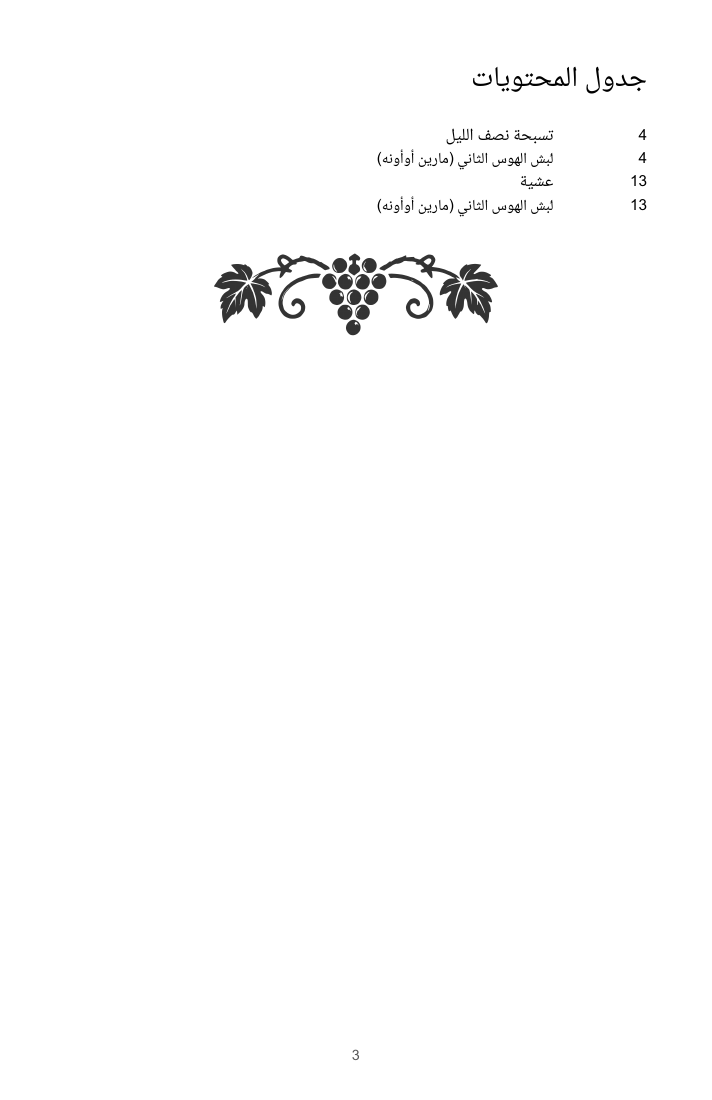
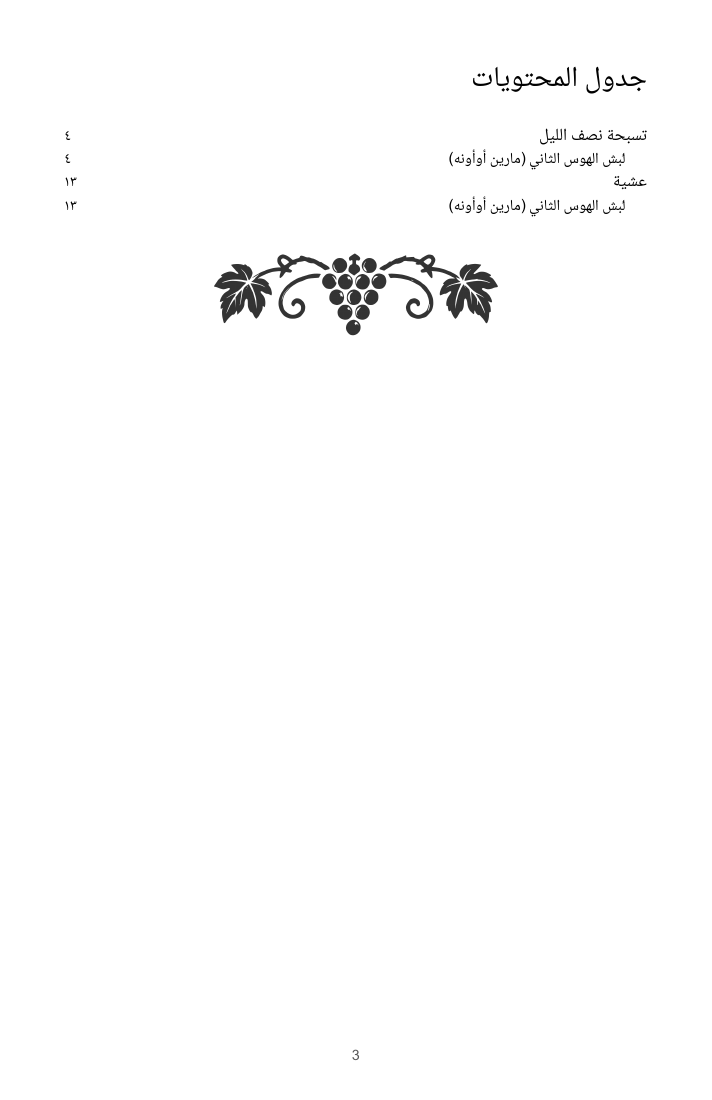
Mirror Arabic contents rows and use Arabic page references

Changed region(s): [[0.5253, 0.1236, 0.927, 0.2164], [0.8034, 0.1855, 0.8343, 0.2164]]

diff --git a/src/Booklets/BookletPdfGenerator.ts b/src/Booklets/BookletPdfGenerator.ts
@@ -1142,20 +1142,20 @@ function drawToc(tocPages: PDFPage[], fonts: EmbeddedFonts, entries: TocEntry[],
         const font = rtl ? fonts.arabic : entry.level === "service" ? fonts.title : fonts.english;
         const indent = entry.level === "service" ? 0 : 12;
         const title = truncateToWidth(entry.title, font, size, CONTENT_WIDTH - 52 - indent);
-        const pageNumber = `${entry.pageNumber}`;
-        const pageNumberWidth = safeTextWidth(fonts.english, pageNumber, 8.5);
+        const pageNumber = arabic ? `${entry.pageNumber}`.replace(/[0-9]/g, digit => "٠١٢٣٤٥٦٧٨٩"[Number(digit)]) : `${entry.pageNumber}`;
+        const numberFont = arabic ? fonts.arabic : fonts.english;
+        const pageNumberWidth = safeTextWidth(numberFont, pageNumber, 8.5);
 
         drawPlainHeadingLine(page, fonts, title, entry.level === "service" ? "title" : "english", size,
-            PAGE_MARGIN_X + indent, LOGICAL_PAGE_WIDTH - PAGE_MARGIN_X - 52, cursorY, black, false);
-        page.drawText(pageNumber, {
-            x: LOGICAL_PAGE_WIDTH - PAGE_MARGIN_X - pageNumberWidth,
-            y: cursorY,
-            size: 8.5,
-            font: fonts.english,
-            color: black
+            PAGE_MARGIN_X + (arabic ? 52 : indent), LOGICAL_PAGE_WIDTH - PAGE_MARGIN_X - (arabic ? indent : 52), cursorY, black, false);
+        let numberX = arabic ? PAGE_MARGIN_X : LOGICAL_PAGE_WIDTH - PAGE_MARGIN_X - pageNumberWidth;
+        // The Arabic font shapes digit strings right-to-left; place digits individually to preserve ١٣ rather than ٣١.
+        (arabic ? Array.from(pageNumber) : [pageNumber]).forEach(part => {
+            page.drawText(part, { x: numberX, y: cursorY, size: 8.5, font: numberFont, color: black });
+            numberX += safeTextWidth(numberFont, part, 8.5);
         });
         if (linkTargets) {
-            addPageLinkAnnotation(page, entry.pageNumber, PAGE_MARGIN_X + indent, cursorY - 2, CONTENT_WIDTH - indent, TOC_LINE_HEIGHT);
+            addPageLinkAnnotation(page, entry.pageNumber, PAGE_MARGIN_X + (arabic ? 0 : indent), cursorY - 2, CONTENT_WIDTH - indent, TOC_LINE_HEIGHT);
         }
         cursorY -= TOC_LINE_HEIGHT;
     });

diff --git a/src/Booklets/BookletPdfGenerator.test.ts b/src/Booklets/BookletPdfGenerator.test.ts
@@ -173,6 +173,12 @@ describe("BookletPdfGenerator", () => {
             expect(draws.mock.calls.some(([text, options]) => text === "(" && options?.font?.name === "Helvetica")).toBe(true);
             expect(draws.mock.calls.map(([text]) => text).join("")).toContain("جدول المحتويات");
             expect(draws.mock.calls.some(([text]) => text === "Table of Contents")).toBe(false);
+            const tocNumber = draws.mock.calls.find(([text, options]) => text === "٤" && options?.size === 8.5);
+            const tocTitle = draws.mock.calls.find(([text, options]) => text === "تسبحة" && options?.size === 9.5);
+            expect(tocNumber).toBeDefined();
+            expect(tocTitle).toBeDefined();
+            expect(tocNumber![1]!.x).toBeLessThan(tocTitle![1]!.x!);
+            expect(tocNumber![1]!.font!.name).not.toBe("Helvetica");
         } finally { draws.mockRestore(); }
     });
     it("places service ornaments after each service and the contents when space permits", async () => {

diff --git a/docs/booklet-layout.md b/docs/booklet-layout.md
@@ -2,7 +2,7 @@
 
 Every season cover includes “Hymns” (for example, “Kiahk Hymns”), with the corresponding Arabic wording. Existing Passion Week title shortening is preserved, and titles that already include “Hymns” are not duplicated.
 
-Arabic booklets use “جدول المحتويات” for the contents heading. Arabic headings use the embedded Arabic font, with Latin text and punctuation falling back to a compatible font; parentheses are mirrored for right-to-left placement.
+Arabic booklets use “جدول المحتويات” for the contents heading. Contents rows place titles on the right, with hymn indentation from the right, followed by Arabic-Indic page numbers in the left column. Arabic headings use the embedded Arabic font, with Latin text and punctuation falling back to a compatible font; parentheses are mirrored for right-to-left placement.
 
 `src/images/bookletServiceDivider.svg` retains the grapevine paths from the current `src/images/logo.svg`, below the logo's tagline. Its viewBox crops the ornament without altering those paths. The larger intrinsic dimensions support sharp PDF rasterization.
 
